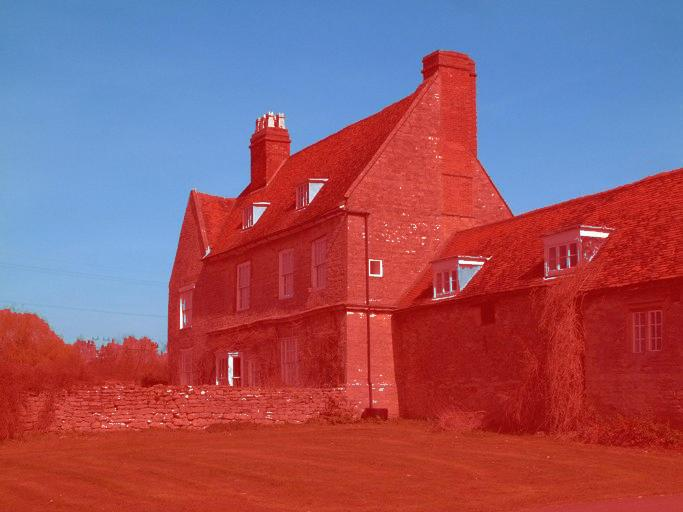
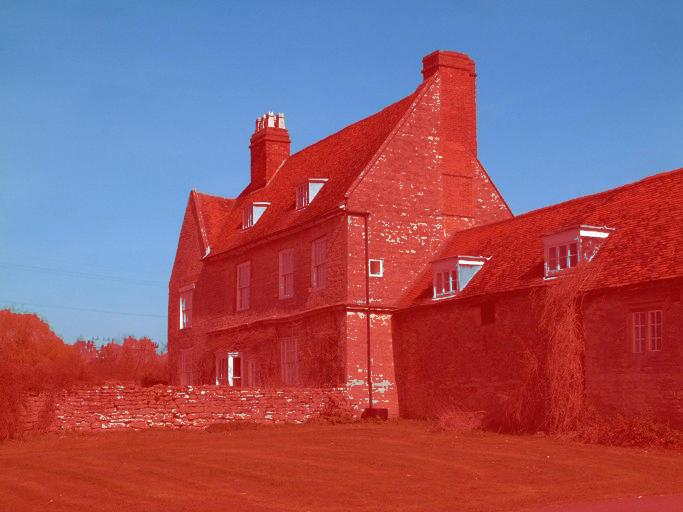
Note: fixed samll bags

diff --git a/HelpModule.py b/HelpModule.py
@@ -1,10 +1,13 @@
 
 from BaseSegmenter import BaseSegmenter
-from cv2_sklearn_segmenter import CV2SklearnSegmenter
+from cv2SklearnSegmenter import CV2SklearnSegmenter
 import numpy as np
 import matplotlib.pyplot as plt
 from PIL import Image
-from typing import Union, Any, Dict
+from typing import Union, Any, Dict, List, Tuple, Optional, TYPE_CHECKING
+
+if TYPE_CHECKING:
+    from BaseSegmenter import BaseSegmenter
 
 def create_segmentation_pipeline():
     """Создание пайплайна сегментации с различными методами"""
@@ -13,12 +16,12 @@ def create_segmentation_pipeline():
         """Пайплайн для последовательного применения методов сегментации"""
         
         def __init__(self) -> None:
-            self.steps = []
+            self.steps: List[Dict[str, Any]] = []
             
         def add_step(self, 
                      name: str, 
                      segmenter: BaseSegmenter, 
-                     params: Dict = None
+                     params: Optional[Dict[str, Any]]  = None
         ) -> None:
             """Добавление шага в пайплайн"""
             self.steps.append({
@@ -30,10 +33,10 @@ def create_segmentation_pipeline():
         def run(self, 
                 image: Union[str, np.ndarray, Image.Image], 
                 visualize: bool = True
-        ) -> Dict[str, Any]:
+        ) -> Dict[str, Dict[str, Any]]:
             """Запуск пайплайна"""
-            results = {}
-            current_image = image
+            results: Dict[str, Dict[str, Any]] = {}
+            current_image: Union[str, np.ndarray, Image.Image] = image
             
             for step in self.steps:
                 print(f"Выполнение шага: {step['name']}")
@@ -44,6 +47,8 @@ def create_segmentation_pipeline():
                         setattr(step['segmenter'], key, value)
                 
                 # Выполняем сегментацию
+                result: np.ndarray
+                mask: np.ndarray
                 result, mask = step['segmenter'].segment_with_mask(current_image)
                 results[step['name']] = {
                     'result': result,
@@ -60,15 +65,96 @@ def create_segmentation_pipeline():
             return results
         
         def visualize_results(self, 
-                              results: Dict[str, Any], 
-                              original_image
+                              results: Dict[str, Dict[str, Any]], 
+                              original_image: Union[str, np.ndarray, Image.Image]
         ) -> None:
             """Визуализация результатов пайплайна"""
-            n_steps = len(results)
+            n_steps: int = len(results)
             
-            fig, axes = plt.subplots(2, n_steps + 1, figsize=(5 * (n_steps + 1), 10))
+            fig_height: int = 10
+            fig_width: int = 5 * (n_steps + 1)
+            
+            fig, axes = plt.subplots(2, n_steps + 1, figsize=(fig_width, fig_height))
             
             # Оригинальное изображение
+            orig_img: Image.Image
+            if isinstance(original_image, str):
+                orig_img = Image.open(original_image).convert('RGB')
+            elif isinstance(original_image, Image.Image):
+                orig_img = original_image
+            elif isinstance(original_image, np.ndarray):
+                orig_img = Image.fromarray(original_image.astype(np.uint8))
+            else:
+                raise TypeError(f"Неподдерживаемый тип изображения: {type(original_image)}")
+            
+            axes[0, 0].imshow(orig_img)
+            axes[0, 0].set_title("Original")
+            axes[0, 0].axis('off')
+            
+            axes[1, 0].axis('off')
+            
+            # Результаты каждого шага
+            for i, (step_name, step_result) in enumerate(results.items(), 1):
+                result_data: np.ndarray = step_result['result']
+                mask_data: np.ndarray = step_result['mask']
+                
+                # Результат сегментации
+                axes[0, i].imshow(result_data)
+                axes[0, i].set_title(f"Step {i}: {step_name}")
+                axes[0, i].axis('off')
+                
+                # Маска
+                if mask_data.ndim == 2:
+                    # Grayscale mask
+                    axes[1, i].imshow(mask_data, cmap='gray', vmin=0, vmax=255)
+                else:
+                    # Color mask
+                    axes[1, i].imshow(mask_data)
+                
+                axes[1, i].set_title(f"Mask {i}")
+                axes[1, i].axis('off')
+
+            # Скрываем пустые оси, если шагов меньше, чем слотов
+            for j in range(i + 1, n_steps + 1):
+                axes[0, j].axis('off')
+                axes[1, j].axis('off')
+            
+            plt.tight_layout()
+            plt.show()
+    
+        def get_step_names(self) -> List[str]:
+            """Получить имена всех шагов в пайплайне"""
+            return [step['name'] for step in self.steps]
+        
+        def get_step(self, name: str) -> Optional[Dict[str, Any]]:
+            """Получить информацию о конкретном шаге по имени"""
+            for step in self.steps:
+                if step['name'] == name:
+                    return step
+            return None
+        
+        def remove_step(self, name: str) -> bool:
+            """Удалить шаг из пайплайна по имени"""
+            for i, step in enumerate(self.steps):
+                if step['name'] == name:
+                    self.steps.pop(i)
+                    return True
+            return False
+        
+        def clear_pipeline(self) -> None:
+            """Очистить весь пайплайн"""
+            self.steps = []
+        
+        def save_visualization(self, 
+                               results: Dict[str, Dict[str, Any]], 
+                               original_image: Union[str, np.ndarray, Image.Image],
+                               save_path: str = "pipeline_results.jpg"
+        ) -> None:
+            """Сохранить визуализацию результатов пайплайна"""
+            n_steps: int = len(results)
+            fig, axes = plt.subplots(2, n_steps + 1, figsize=(5 * (n_steps + 1), 10))
+            
+            # Обрабатываем оригинальное изображение
             if isinstance(original_image, str):
                 orig_img = Image.open(original_image).convert('RGB')
             elif isinstance(original_image, Image.Image):
@@ -93,13 +179,15 @@ def create_segmentation_pipeline():
                 axes[1, i].axis('off')
             
             plt.tight_layout()
-            plt.show()
+            plt.savefig(save_path, dpi=150, bbox_inches='tight')
+            plt.close(fig)
+            print(f"Визуализация сохранена: {save_path}")
     
     return SegmentationPipeline()
 
 
 # Пример создания пайплайна
-def example_pipeline() -> None:
+def example_pipeline() -> Tuple[Any, Dict[str, Dict[str, Any]]]:
     """Пример пайплайна сегментации"""
     
     pipeline = create_segmentation_pipeline()
@@ -133,3 +221,106 @@ def example_pipeline() -> None:
     results = pipeline.run(image_path)
     
     return pipeline, results
+
+def create_advanced_pipeline_example() -> Any:
+    """Пример создания сложного пайплайна с различными методами"""
+    
+    pipeline = create_segmentation_pipeline()
+    
+    # Этап 1: Детекция краев
+    pipeline.add_step(
+        "Sobel_Edge_Detection",
+        CV2SklearnSegmenter("sobel_edge", threshold=40)
+    )
+    
+    # Этап 2: Бинаризация
+    pipeline.add_step(
+        "Otsu_Thresholding",
+        CV2SklearnSegmenter("otsu_thresholding")
+    )
+    
+    # Этап 3: Морфологические операции (через адаптивный порог)
+    pipeline.add_step(
+        "Morphological_Refinement",
+        CV2SklearnSegmenter("adaptive_thresholding", block_size=25, C=10)
+    )
+    
+    # Этап 4: Кластеризация для сегментации
+    pipeline.add_step(
+        "KMeans_Clustering",
+        CV2SklearnSegmenter("kmeans_segmentation", k=4)
+    )
+    
+    # Этап 5: Окончательная сегментация
+    pipeline.add_step(
+        "Final_Segmentation",
+        CV2SklearnSegmenter("watershed")
+    )
+    
+    return pipeline
+
+
+def analyze_pipeline_results(results: Dict[str, Dict[str, Any]]) -> Dict[str, Any]:
+    """Анализ результатов пайплайна"""
+    
+    analysis: Dict[str, Any] = {
+        'total_steps': len(results),
+        'step_names': list(results.keys()),
+        'mask_statistics': {},
+        'execution_info': {}
+    }
+    
+    for step_name, step_data in results.items():
+        mask: np.ndarray = step_data['mask']
+        
+        # Статистика маски
+        mask_stats = {
+            'shape': mask.shape,
+            'dtype': str(mask.dtype),
+            'min_value': float(mask.min()),
+            'max_value': float(mask.max()),
+            'mean_value': float(mask.mean()),
+            'nonzero_pixels': int(np.count_nonzero(mask)),
+            'total_pixels': int(mask.size),
+            'coverage_percentage': float(np.count_nonzero(mask) / mask.size * 100)
+        }
+        
+        analysis['mask_statistics'][step_name] = mask_stats
+        
+        # Информация о сегментаторе
+        segmenter: BaseSegmenter = step_data['segmenter']
+        analysis['execution_info'][step_name] = {
+            'segmenter_type': type(segmenter).__name__,
+            'segmenter_name': segmenter.name if hasattr(segmenter, 'name') else 'Unknown'
+        }
+    
+    return analysis
+
+
+def print_pipeline_analysis(analysis: Dict[str, Any]) -> None:
+    """Печать анализа результатов пайплайна"""
+    
+    print("\n" + "="*60)
+    print("АНАЛИЗ РЕЗУЛЬТАТОВ ПАЙПЛАЙНА")
+    print("="*60)
+    
+    print(f"Всего шагов: {analysis['total_steps']}")
+    print(f"Шаги: {', '.join(analysis['step_names'])}")
+    
+    print("\nСтатистика масок:")
+    print("-"*40)
+    
+    for step_name, stats in analysis['mask_statistics'].items():
+        print(f"\n{step_name}:")
+        print(f"  Размер: {stats['shape']}")
+        print(f"  Тип данных: {stats['dtype']}")
+        print(f"  Диапазон значений: [{stats['min_value']:.2f}, {stats['max_value']:.2f}]")
+        print(f"  Среднее значение: {stats['mean_value']:.2f}")
+        print(f"  Ненулевых пикселей: {stats['nonzero_pixels']:,}")
+        print(f"  Покрытие: {stats['coverage_percentage']:.2f}%")
+    
+    print("\nИнформация о сегментаторах:")
+    print("-"*40)
+    
+    for step_name, info in analysis['execution_info'].items():
+        print(f"{step_name}: {info['segmenter_type']} ({info['segmenter_name']})")

diff --git a/main.py b/main.py
@@ -2,7 +2,8 @@
 from SegmentationTester import SegmentationTester
 from TorchSegmenter import TorchSegmenter
 from NeuralSegmenter import NeuralSegmenter
-from cv2_sklearn_segmenter import CV2SklearnSegmenter
+from cv2SklearnSegmenter import CV2SklearnSegmenter
+from HelpModule import create_advanced_pipeline_example, analyze_pipeline_results, print_pipeline_analysis
 import pandas as pd
 from typing import Union, Dict, Any
 from huggingface_hub import hf_hub_download
@@ -18,7 +19,7 @@ import traceback
 
 
 def main() -> Union[SegmentationTester, Dict[str, Any], pd.DataFrame]:
-    """Пример использования всех классов"""
+    """Тестирование использования всех классов"""
     
     # Инициализация тестера
     tester = SegmentationTester()
@@ -512,6 +513,28 @@ def main() -> Union[SegmentationTester, Dict[str, Any], pd.DataFrame]:
     print(f"✓ Изображение: {local_image_path}")
     print(f"✓ Результаты сохранены в: {output_dir}")
     print("=" * 60)
+
+    pipeline = create_advanced_pipeline_example()
+    
+    print(f"Создан пайплайн с шагами: {pipeline.get_step_names()}")
+    
+    # Запускаем пайплайн на тестовом изображении
+    # (нужно иметь test_image.jpg в директории)
+    try:
+        results = pipeline.run("test_image.jpg", visualize=True)
+        
+        # Анализируем результаты
+        analysis = analyze_pipeline_results(results)
+        print_pipeline_analysis(analysis)
+        
+        # Сохраняем визуализацию
+        pipeline.save_visualization(results, "original_imagge_6.jpg", "advanced_pipeline_results.jpg")
+        
+    except FileNotFoundError:
+        print("⚠ Файл original_imagge_6.jpg не найден.")
+        print("Создайте тестовое изображение или укажите другой путь.")
+    except Exception as e:
+        print(f"❌ Ошибка выполнения пайплайна: {e}")
     
     return tester, results, df
 
@@ -609,9 +632,9 @@ if __name__ == "__main__":
     tester, results, df = main()
     
     # Дополнительный тест нейросетевых вариантов
-    print("\n\nЗАПУСК ДОПОЛНИТЕЛЬНОГО ТЕСТА НЕЙРОСЕТЕВЫХ ВАРИАНТОВ")
-    print("=" * 60)
-    segmenter, detailed_result = test_neural_segmentation_variants()
+    # print("\n\nЗАПУСК ДОПОЛНИТЕЛЬНОГО ТЕСТА НЕЙРОСЕТЕВЫХ ВАРИАНТОВ")
+    # print("=" * 60)
+    # segmenter, detailed_result = test_neural_segmentation_variants()
 
 
 def compare_with_ground_truth_simple(image_path: str, 
